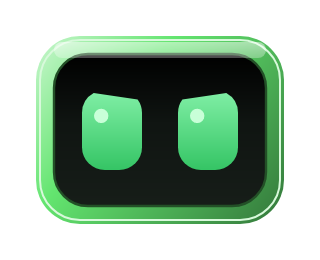
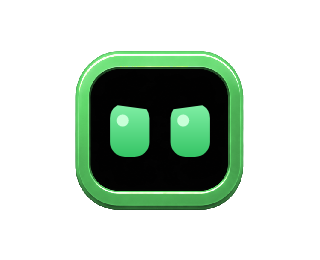
Update public guides and native previews for Android 0.17

diff --git a/CHANGELOG.md b/CHANGELOG.md
@@ -2,7 +2,7 @@
 
 Este é o lugar para consultar **o que mudou e qual APK baixar**.
 
-## Versão atual: 0.16 experimental
+## Versão atual: 0.17 experimental
 
 **[Baixar o APK atual](https://github.com/duOCELOT/pestinha-duOCELOT/releases/latest/download/Pestinha-Android.apk)** ·
 [Release com hash e código-fonte](https://github.com/duOCELOT/pestinha-duOCELOT/releases/latest) ·
@@ -15,7 +15,8 @@ Android 8.0+, ARM64 ou x86_64. O arquivo já é `.apk`, sem ZIP ou login.
 
 | Versão | Principal novidade | APK público |
 | --- | --- | --- |
-| **0.16 — atual** | Presidente, novo acabamento e seletor de pet no topo | **[Baixar 0.16](https://github.com/duOCELOT/pestinha-duOCELOT/releases/download/android-v0.16.0/Pestinha-Android.apk)** |
+| **0.17 — atual** | Arte detalhada, transparência e cores personalizáveis | **[Baixar 0.17](https://github.com/duOCELOT/pestinha-duOCELOT/releases/download/android-v0.17.0/Pestinha-Android.apk)** |
+| 0.16 | Presidente, novo acabamento e seletor de pet no topo | **[Baixar 0.16](https://github.com/duOCELOT/pestinha-duOCELOT/releases/download/android-v0.16.0/Pestinha-Android.apk)** |
 | 0.15 | Novo nome e visual do L.U.L.A | **[Baixar 0.15](https://github.com/duOCELOT/pestinha-duOCELOT/releases/download/android-v0.15.0/Pestinha-Android.apk)** |
 | 0.14 | Notícias: fechar sem abrir; cuidados, visual e dois pets novos | **[Baixar 0.14](https://github.com/duOCELOT/pestinha-duOCELOT/releases/download/android-v0.14.0/Pestinha-Android.apk)** |
 | 0.13 | Fundo transparente no Arkanoid | **[Baixar 0.13](https://github.com/duOCELOT/pestinha-duOCELOT/releases/download/android-v0.13.0/Pestinha-Android.apk)** |
@@ -27,11 +28,20 @@ Android 8.0+, ARM64 ou x86_64. O arquivo já é `.apk`, sem ZIP ou login.
 | 0.7 | Biblioteca RSS e pausas conscientes | Histórico de desenvolvimento |
 | Anteriores | Pet nativo, personagens, memória e interações | Histórico de desenvolvimento |
 
-**0.16, 0.15, 0.14 e 0.13 têm Releases públicas.** As linhas marcadas como histórico
+**0.17, 0.16, 0.15, 0.14 e 0.13 têm Releases públicas.** As linhas marcadas como histórico
 registram a evolução do app e não têm pacotes separados para instalar. Seus antigos
 artefatos de teste não são o canal de download. Para novas instalações, use o APK atual.
 
 ## Detalhes das mudanças
+
+### 0.17 — Arte detalhada
+
+- Arte com brilho, cabelo, roupas e acessórios adaptada das referências fornecidas.
+- Transparência, limpeza de pixels isolados e margem para inclinação.
+- Olhos animados e cores independentes da moldura/olhos.
+- Troca de acessório usa a base detalhada com item desenhado pelo app; camadas detalhadas intercambiáveis ainda no roadmap.
+- Lista de próximos passos no README, incluindo avaliar 32 bits. APK continua ARM64/x86_64.
+- [Arquitetura e limites da arte](docs/android/ARTE-HD.md).
 
 ### 0.16 — Presidente e visual dos personagens
 

diff --git a/README.md b/README.md
@@ -4,7 +4,7 @@ Um pet sobre os seus aplicativos, com personalidade, memória, tarefas, notícia
 
 ## Baixar e instalar
 
-**Versão atual: 0.16 experimental.** Android 8.0+, ARM64 ou x86_64.
+**Versão atual: 0.17 experimental.** Android 8.0+, ARM64 ou x86_64.
 
 ### [⬇ Baixar Pestinha-Android.apk](https://github.com/duOCELOT/pestinha-duOCELOT/releases/latest/download/Pestinha-Android.apk)
 
@@ -21,7 +21,7 @@ APK direto, sem ZIP ou login. Não precisa de Termux, Ubuntu ou VNC.
 **[Todas as informações das versões estão nesta página →](CHANGELOG.md)**
 
 Ela reúne o que mudou, qual é a versão atual e quais versões têm APK publicado.
-A **0.16** traz o **Presidente**, acabamento com brilho nos personagens, cores de borda e olhos personalizáveis e escolha do pet junto da prévia no topo. Inclui todas as funções anteriores.
+A **0.17** traz arte detalhada dos cinco personagens, com transparência, olhos animados e cores de borda e olhos personalizáveis. Veja os [detalhes e limites da arte](docs/android/ARTE-HD.md). Inclui todas as funções anteriores.
 
 [Release atual: APK, hash e código correspondente](https://github.com/duOCELOT/pestinha-duOCELOT/releases/latest)
 
@@ -48,7 +48,8 @@ Prévias da interface renderizadas em testes, com dados de exemplo. O campo do j
 ## Próximos passos
 
 - [ ] Avaliar Android de **32 bits (armeabi-v7a)**: conferir suporte do Python/Chaquopy e demais dependências, tamanho do APK e testes em aparelho compatível. Ainda sem suporte prometido.
-- [ ] Aproximar os cinco personagens das referências aprovadas, com arte detalhada, transparência e olhos animados.
+- [x] Integrar arte detalhada dos cinco personagens, adaptada das referências, com transparência e olhos animados.
+- [ ] Refinar a fidelidade das artes às referências aprovadas.
 - [ ] Separar todos os acessórios da arte detalhada em camadas intercambiáveis, mantendo cores de borda e olhos independentes.
 - [ ] Testar consumo de memória, bateria e fluidez das novas artes em aparelhos reais.
 - [ ] Ampliar interações e personalidade dos pets.

diff --git a/.github/release-notes/android-v0.17.0.md b/.github/release-notes/android-v0.17.0.md
@@ -1,0 +1,14 @@
+## Arte detalhada e próximos passos
+
+- Cinco personagens com arte detalhada de brilho, cabelo, roupa e acessórios, adaptada das referências fornecidas.
+- Fundo transparente, limpeza de pixels isolados e margem para inclinar sem cortar o personagem.
+- Olhos desenhados separadamente: piscar, expressões e cores continuam funcionando.
+- Cor da moldura configurável, preservando os detalhes da imagem. Memórias e preferências mantidas.
+- Selecionar outro acessório usa a base detalhada e o acessório desenhado pelo app. Separar todos os itens em camadas igualmente detalhadas fica no roadmap.
+- README com lista de próximos passos, incluindo avaliação de Android 32 bits. O APK atual continua ARM64/x86_64.
+
+A arte é uma adaptação das referências, não uma cópia pixel a pixel. O app continua experimental; verificar no aparelho desempenho e aparência sobre aplicativos claros e escuros.
+
+### Instalar
+
+Baixe **Pestinha-Android.apk** e instale sobre a versão atual para manter os dados. Android 8.0+, ARM64 ou x86_64. APK de desenvolvimento, com assinatura fixa e `debuggable=true`.

diff --git a/docs/android/CUIDADOS.md b/docs/android/CUIDADOS.md
@@ -53,4 +53,8 @@ O acabamento usa gradientes nativos e acessórios em camadas, não uma imagem 3D
 
 <img src="images/presidente.png" width="280" alt="Presidente com moldura vermelha forte, barba branca e faixa decorativa">
 
-Prévia nativa renderizada nos testes da compilação 0.16; não é captura de um aparelho. Preferências de cor salvas são mantidas: use **Restaurar visual original** para voltar à paleta padrão do personagem.
+Prévia nativa renderizada nos testes da compilação 0.17; não é captura de um aparelho. Preferências de cor salvas são mantidas: use **Restaurar visual original** para voltar à paleta padrão do personagem.
+
+## Arte detalhada na 0.17
+
+O visual original agora usa arte raster detalhada com olhos animados separados. Cores da moldura e dos olhos seguem configuráveis. Ao escolher outro acessório, usa-se o corpo básico detalhado com o item desenhado pelo app. Veja [arte e limitações](ARTE-HD.md).

diff --git a/docs/android/images/README.md b/docs/android/images/README.md
@@ -27,3 +27,7 @@ Interface e documentação seguem a [licença do projeto](../../../LICENSE).
 ## Atualização 0.16
 
 `inicio.png`, `mimir.png`, `bryan.png`, `luna.png` e `presidente.png` vêm da [compilação validada 0.16](https://github.com/duOCELOT/pestinha-duOCELOT/actions/runs/41645282506), via `DesignTest`. Mostram o desenho Canvas real, com transparência, gradientes e acessórios em camadas. `lula.png` permanece como registro da versão 0.15.
+
+## Atualização 0.17
+
+`inicio.png`, `bryan.png`, `mimir.png`, `luna.png` e `presidente.png` foram atualizadas a partir da [compilação validada 0.17](https://github.com/duOCELOT/pestinha-duOCELOT/actions/runs/41647993545). A arte detalhada é derivada das referências fornecidas pelo mantenedor via geração de imagens; olhos e cores são renderizados pelo código Android. São testes de Views reais, não capturas de telefone.
